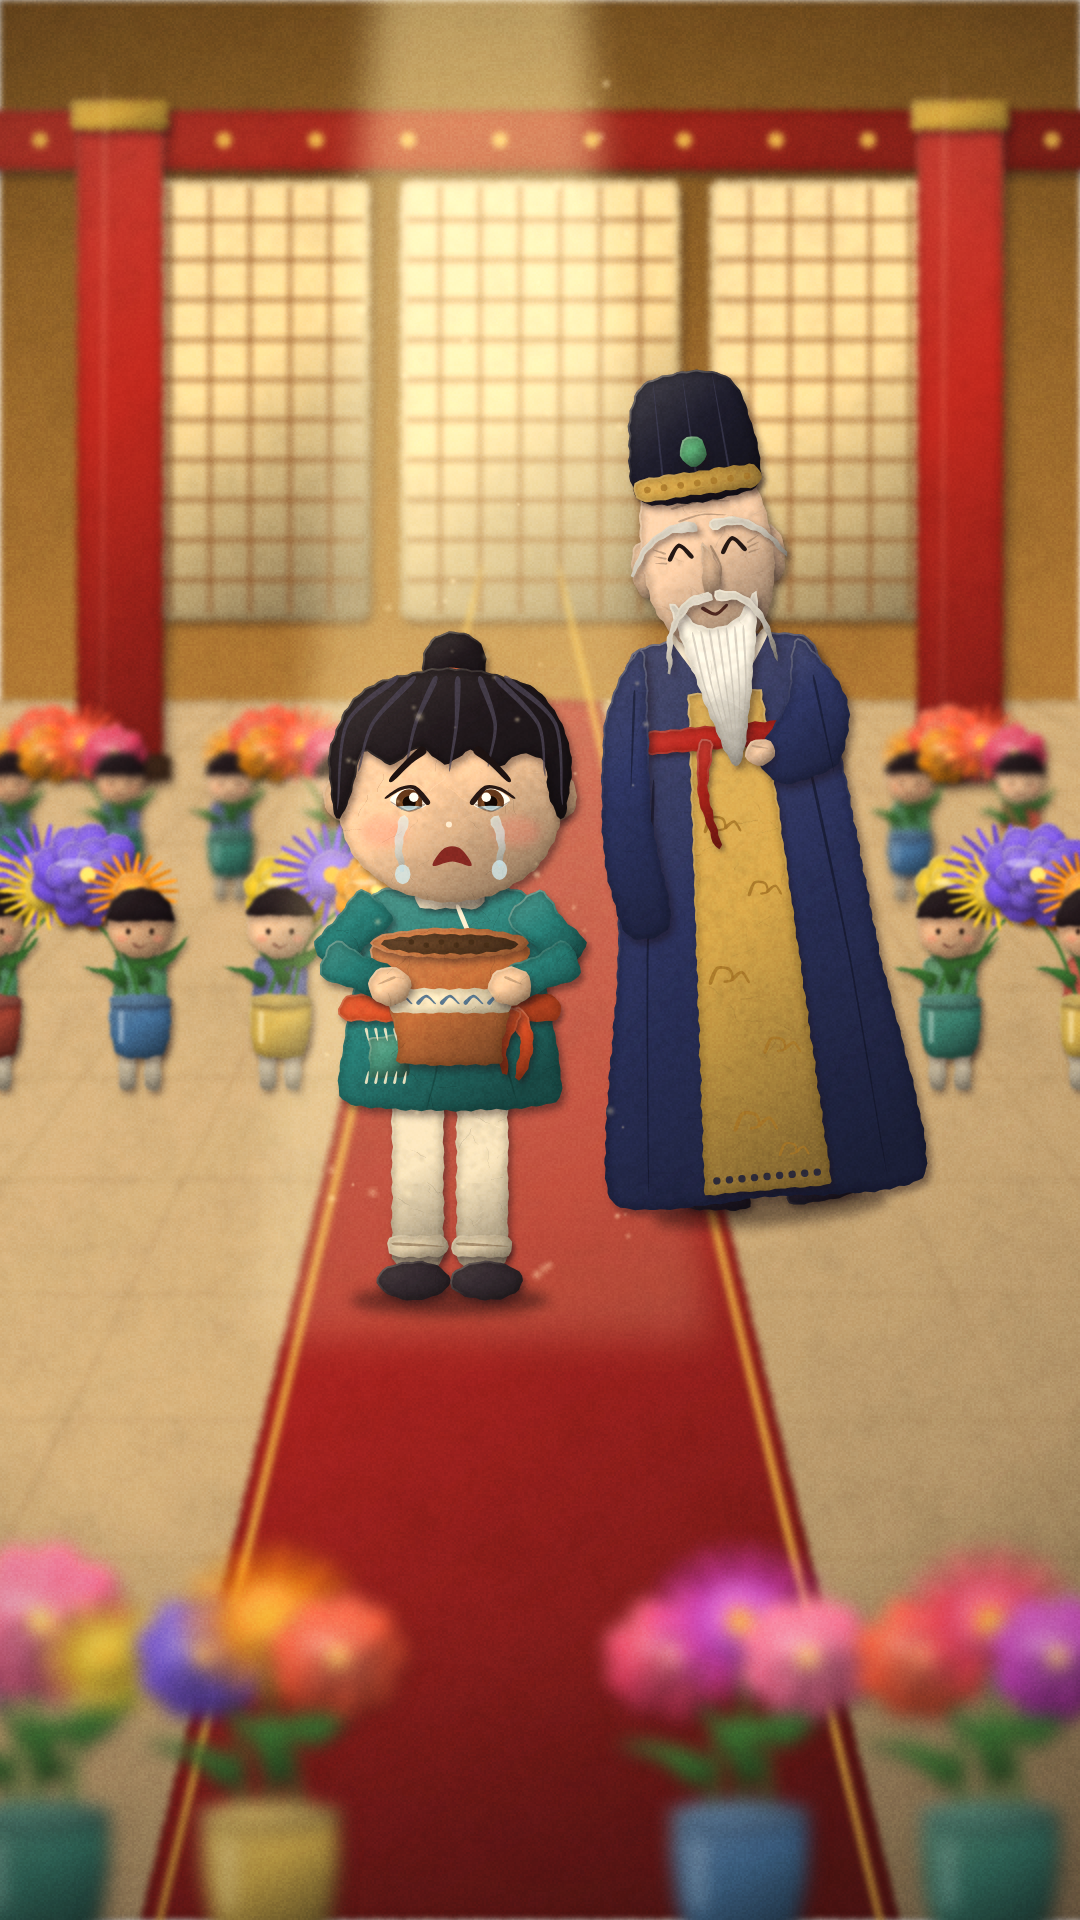
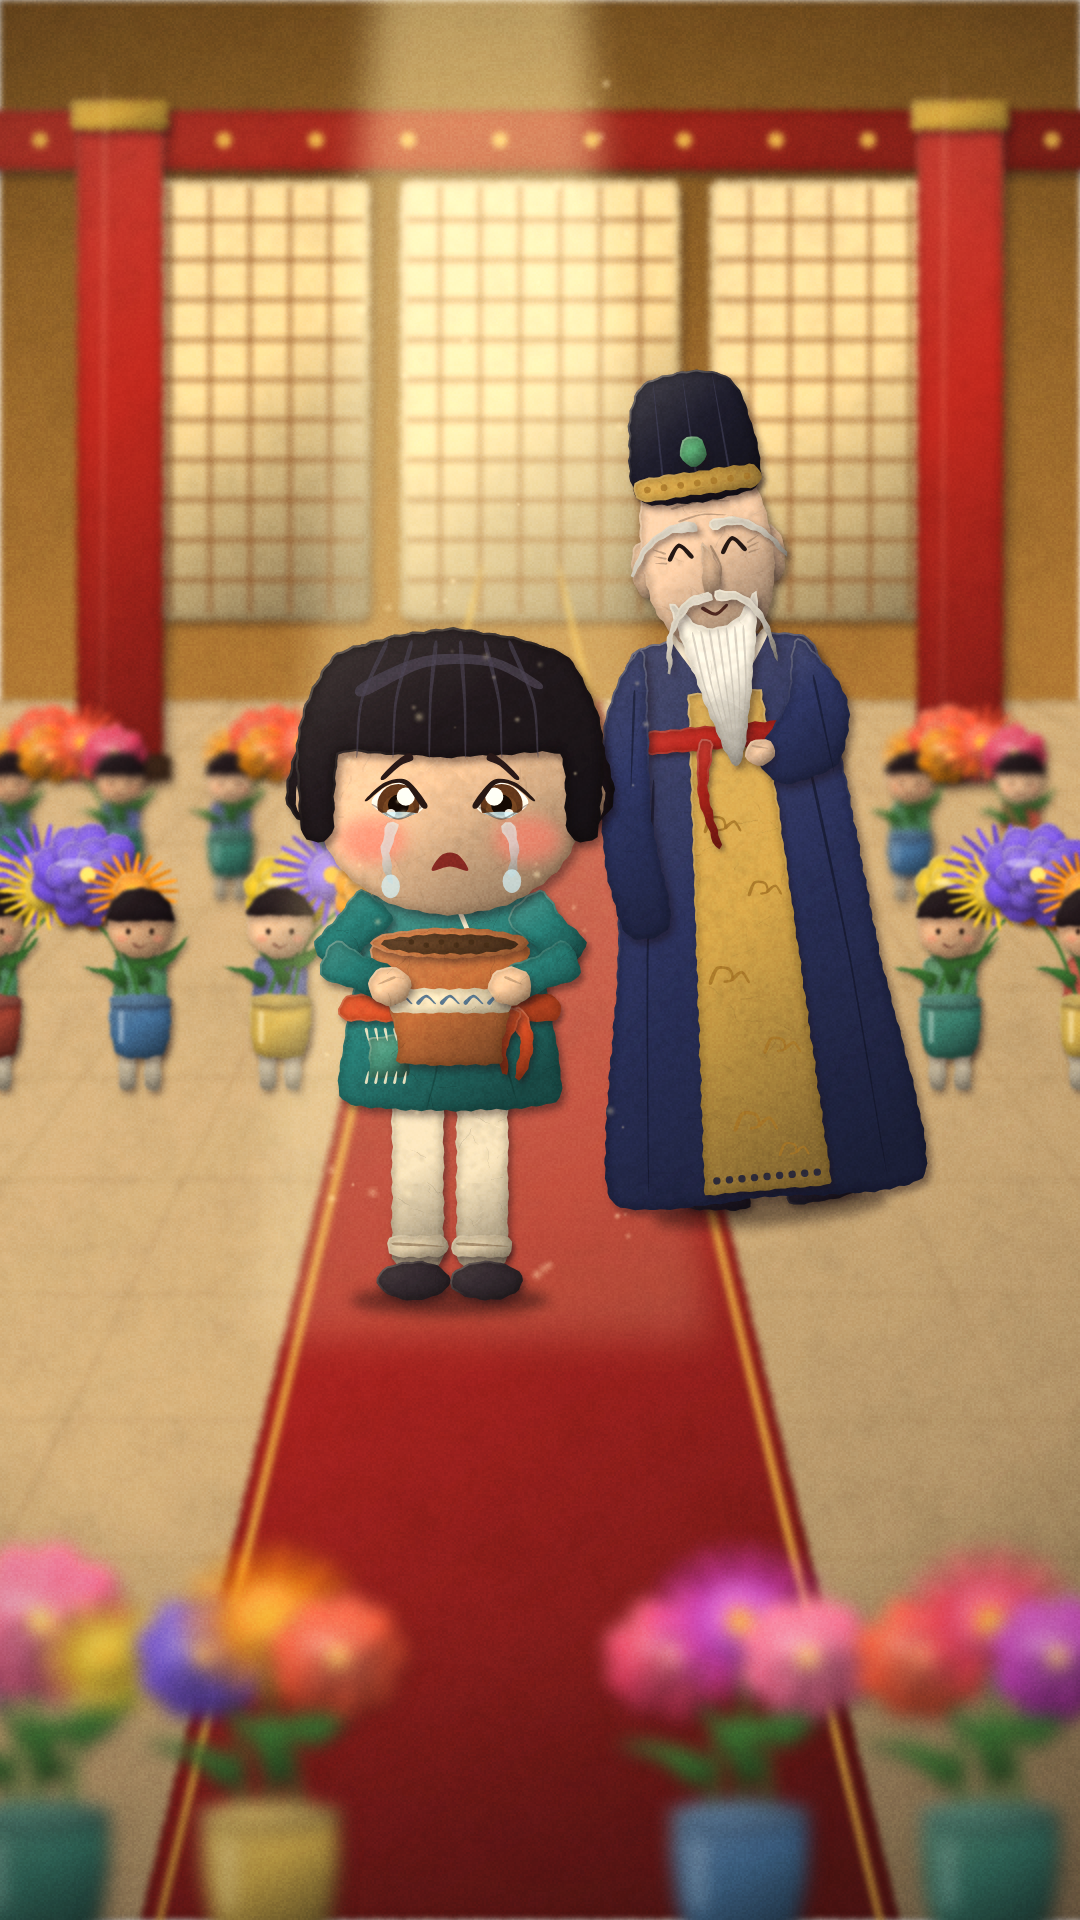
O Pote Vazio: Ping mais fofinho (okappa, cabeça maior, olhos grandes)
Claude-Session: https://claude.ai/code/session_01X11VASBScBsp7AUyCmMJeZ

Changed region(s): [[0.2444, 0.3125, 0.5806, 0.5]]

diff --git a/pote_vazio/characters.py b/pote_vazio/characters.py
@@ -51,7 +51,7 @@ def eye(c, x, y, kind, col, rx=7.0, ry=9.5, look=(0, 0), wet=False, side=1):
     ink(c, [(ex - rx * 1.25, top + 2.5 * k), (ex, top - 0.8 * k), (ex + rx * 1.25, top + 2.5 * k)], 2.4 * k, col, 0.9, 1.4 * k)
 
 
-def almond_eye(c, x, y, kind, col, side=1, look=(0, 0), wet=False, rx=8.2, ry=6.0):
+def almond_eye(c, x, y, kind, col, side=1, look=(0, 0), wet=False, rx=8.2, ry=6.0, cute=False):
     """Olho amendoado pequeno e delicado (traço de livro ilustrado): ponto escuro,
     pálpebra superior em nanquim, brilho mínimo."""
     if kind in ('happy', 'closed'):
@@ -82,8 +82,10 @@ def almond_eye(c, x, y, kind, col, side=1, look=(0, 0), wet=False, rx=8.2, ry=6.
     flat(c, circ(ix, iy, ir), (92, 58, 38))
     flat(c, circ(ix, iy + ir * 0.25, ir * 0.75), (120, 80, 50), 0.6)
     flat(c, circ(ix, iy, ir * 0.5), (22, 16, 16))
-    hl = 1.6 if not wet else 2.2
+    hl = (1.6 if not wet else 2.2) * (1.6 if cute else 1.0)
     flat(c, circ(ix - side * ir * 0.35, iy - ir * 0.4, hl), (255, 252, 244), 0.95)
+    if cute:
+        flat(c, circ(ix + side * ir * 0.35, iy + ir * 0.4, hl * 0.5), (255, 252, 244), 0.85)
     if wet:
         flat(c, ell(ex, ey + ry * sy * 0.5, rx * 0.9, 1.4), (200, 230, 240), 0.8)
     c.restore()
@@ -164,9 +166,9 @@ def tear_streams(c, pts_l, pts_r):
 PING_EXPR = {
     'neutro':      dict(eyes='open', brows=(0, 0), mouth='smile', blush=0.45),
     'encanto':     dict(eyes='wide', brows=(-5, -4), mouth='smile_open', blush=0.55),
-    'concentrado': dict(eyes='half', brows=(1, 1), mouth='tongue', blush=0.4, look=(1.5, 2)),
-    'decepcionado': dict(eyes='half', brows=(-6, 3), mouth='flat_down', blush=0.35, look=(0, 2)),
-    'vergonha':    dict(eyes='down', brows=(-9, 4), mouth='wobble', blush=1.4, look=(-2, 4), tilt=-9),
+    'concentrado': dict(eyes='open', brows=(1, 1), mouth='tongue', blush=0.4, look=(2, 4)),
+    'decepcionado': dict(eyes='open', brows=(-8, 5), mouth='flat_down', blush=0.35, look=(0, 4)),
+    'vergonha':    dict(eyes='open', brows=(-9, 5), mouth='wobble', blush=1.5, look=(-4, 5), tilt=-9),
     'choro':       dict(eyes='open', brows=(-9, 5), mouth='cry', blush=0.8, wet=True, tears=True, look=(0, 1)),
     'coragem':     dict(eyes='open', brows=(0, -2), mouth='firm', blush=0.6, wet=True),
     'alegria':     dict(eyes='happy', brows=(-5, -3), mouth='smile_open', blush=0.75),
@@ -174,58 +176,60 @@ PING_EXPR = {
 
 
 def ping_head(c, expr='neutro', t=0.0, mouth_kind=None, mouth_open=1.0, blink=0.0, nod=0.0):
+    """Ping fofinho, estilo livro infantil japonês: cabeça grande e redonda, bochechas cheias,
+    cabelo okappa (franja reta), olhos grandes e baixos, nariz e boca pequenos."""
     e = PING_EXPR[expr]
     P = PING
     hx, hy = 0, -238
     c.save()
     c.rotate(e.get('tilt', 0), hx, hy + 40)
     c.translate(0, nod)
-    # coque + fita (atrás)
-    layer(c, circ(hx + 2, hy - 58, 15), P['hair'], depth=0.15, seed=1)
+    # cabeça maior (≈2,6 cabeças de altura total)
+    c.translate(0, -190); c.scale(1.2, 1.2); c.translate(0, 190)
+    # volume de trás do cabelo
+    back = smooth([(hx - 55, hy + 22), (hx - 57, hy - 16), (hx - 42, hy - 44), (hx, hy - 52), (hx + 42, hy - 44),
+                   (hx + 57, hy - 16), (hx + 55, hy + 22)], tension=0.45)
+    layer(c, back, P['hair'], depth=0.18, seed=1)
+    # orelhas pequenas
     for s in (-1, 1):
-        layer(c, tp([(hx + 2, hy - 52), (hx + 2 + s * 14, hy - 46), (hx + 2 + s * 22, hy - 34)], 7, 3),
-              P['sash'], depth=0.1, seed=2 + s)
-    layer(c, ell(hx + 2, hy - 50, 9, 6), P['sash'], depth=0.1, seed=4)
-    # orelhas
-    for s in (-1, 1):
-        layer(c, ell(hx + s * 50, hy + 4, 9, 11), mul(P['skin'], 0.96), depth=0.1, seed=5 + s)
-        flat(c, ell(hx + s * 50, hy + 5, 4, 6), mul(P['skin'], 0.82), 0.6)
-    # rosto (redondo, bochecha cheia)
+        layer(c, ell(hx + s * 52, hy + 12, 8, 10), mul(P['skin'], 0.96), depth=0.1, seed=5 + s)
+        flat(c, ell(hx + s * 52, hy + 13, 3.5, 5), mul(P['skin'], 0.82), 0.6)
+    # rosto: redondo, mais largo embaixo (bochechas de bebê)
     pts = []
-    for i in range(28):
-        a = i / 28 * 2 * math.pi
-        r_x, r_y = 51, 48
-        bulge = 1 + 0.06 * max(0, math.sin(a)) * abs(math.cos(a)) * 2
-        pts.append((hx + math.cos(a) * r_x * bulge, hy + 4 + math.sin(a) * r_y * (1.02 if math.sin(a) > 0 else 1)))
-    face = smooth(pts)
-    layer(c, face, P['skin'], depth=0.2, seed=7)
-    # blush
+    for i in range(32):
+        a = i / 32 * 2 * math.pi
+        sx = 53 * (1 + 0.07 * max(0, math.sin(a)))
+        sy = 49 * (1.04 if math.sin(a) > 0 else 1)
+        pts.append((hx + math.cos(a) * sx, hy + 6 + math.sin(a) * sy))
+    layer(c, smooth(pts), P['skin'], depth=0.2, seed=7)
+    # bochechas rosadas grandes
     for s in (-1, 1):
-        flat(c, ell(hx + s * 31, hy + 20, 11, 7), P['blush'], 0.35 * e['blush'], blur=5)
+        flat(c, ell(hx + s * 30, hy + 28, 13, 9), P['blush'], 0.42 * min(1.6, 0.6 + e['blush']), blur=6)
     look = e.get('look', (0, 0))
     for s in (-1, 1):
-        almond_eye(c, hx + s * 19, hy + 6, 'closed' if blink > 0.5 else e['eyes'], P['eye'], side=s, look=look, wet=e.get('wet', False))
-    # nariz botão
-    flat(c, ell(hx + 1, hy + 18, 4.5, 3.6), mul(P['skin'], 0.86), 0.9)
-    flat(c, circ(hx - 0.5, hy + 16.8, 1.4), (255, 240, 225), 0.7)
-    mouth(c, hx + 1, hy + 31, mouth_kind or e['mouth'], op=mouth_open)
+        almond_eye(c, hx + s * 20, hy + 14, 'closed' if blink > 0.5 else e['eyes'], P['eye'], side=s, look=look,
+                   wet=e.get('wet', False), rx=9.6, ry=8.0, cute=True)
+    # nariz mínimo
+    flat(c, ell(hx, hy + 25, 2.8, 2.2), mul(P['skin'], 0.84), 0.9)
+    mouth(c, hx, hy + 36, mouth_kind or e['mouth'], s=0.78, op=mouth_open)
     if e.get('tears'):
-        tear_streams(c, [(hx - 21, hy + 14), (hx - 24, hy + 26), (hx - 22, hy + 38)],
-                     [(hx + 21, hy + 14), (hx + 24, hy + 26), (hx + 23, hy + 36)])
-    # cabelo (franja recortada) por cima
-    hair = smooth([(hx - 53, hy + 14), (hx - 56, hy - 18), (hx - 40, hy - 46), (hx, hy - 56), (hx + 40, hy - 46),
-                   (hx + 56, hy - 18), (hx + 53, hy + 14), (hx + 46, hy + 4), (hx + 44, hy - 12), (hx + 32, hy - 16),
-                   (hx + 22, hy - 10), (hx + 10, hy - 18), (hx - 2, hy - 11), (hx - 14, hy - 19),
-                   (hx - 27, hy - 11), (hx - 40, hy - 17), (hx - 45, hy - 2), (hx - 47, hy + 6)], tension=0.42)
+        tear_streams(c, [(hx - 22, hy + 22), (hx - 25, hy + 32), (hx - 23, hy + 44)],
+                     [(hx + 22, hy + 22), (hx + 25, hy + 32), (hx + 24, hy + 42)])
+    # okappa: franja reta + laterais retas na altura do queixo
+    hair = smooth([(hx - 57, hy + 26), (hx - 59, hy - 14), (hx - 44, hy - 44), (hx, hy - 54), (hx + 44, hy - 44),
+                   (hx + 59, hy - 14), (hx + 57, hy + 26), (hx + 46, hy + 26), (hx + 44, hy - 2), (hx + 40, hy - 6),
+                   (hx + 20, hy - 5), (hx, hy - 4), (hx - 20, hy - 5), (hx - 40, hy - 6), (hx - 44, hy - 2), (hx - 46, hy + 26)],
+                  tension=0.35)
     layer(c, hair, P['hair'], depth=0.18, seed=9)
-    # mechas finas em tom diferente
-    for k, (x0, x1, y1) in enumerate([(-30, -42, -10), (-12, -20, -12), (6, 0, -10), (24, 18, -12), (38, 44, -8),
-                                      (-44, -52, 6), (46, 52, 4)]):
-        ink(c, [(hx + x0 * 0.6, hy - 50), (hx + (x0 + x1) / 2, hy - 30), (hx + x1, hy + y1)], 2.6, P['hair_hi'], 0.75, 0.8)
-    # sobrancelhas
+    # brilho do cabelo (arco) e mechas finas
+    c.drawPath(tp([(hx - 34, hy - 30), (hx - 10, hy - 41), (hx + 16, hy - 41), (hx + 34, hy - 32)], 5, 3),
+               skia.Paint(AntiAlias=True, Color=C(P['hair_hi'], 0.7)))
+    for x0 in (-36, -22, -8, 6, 20, 34):
+        ink(c, [(hx + x0 * 0.7, hy - 47), (hx + x0 * 0.95, hy - 26), (hx + x0, hy - 6)], 1.6, P['hair_hi'], 0.6, 0.6)
+    # sobrancelhas curtinhas aparecendo logo abaixo da franja
     bi, bo = e['brows']
     for s in (-1, 1):
-        brow(c, hx + s * 19, hy - 9, bi, bo, s, (30, 24, 28), w=3.8, L=15)
+        brow(c, hx + s * 20, hy + 1, bi * 0.6, bo * 0.6, s, (40, 30, 34), w=3.0, L=11)
     c.restore()
 
 

diff --git a/pote_vazio/sheet.py b/pote_vazio/sheet.py
@@ -51,7 +51,7 @@ cols = [
          ficha=['Quem é: o menino que faz tudo florir.', 'Quer: ser escolhido pelo imperador.',
                 'Defeito: o orgulho do dom vira vergonha quando a semente falha.',
                 'Jeito: rápido e saltitante; encolhe quando sente vergonha. Gesto: abraça o pote contra o peito.'],
-         why='Círculo e 3 cabeças: criança gentil. Verde-azulado, complementar à luz dourada, para se destacar; o vermelho da fita e da faixa é o acento. O remendo conta que a família é simples.'),
+         why='Círculo e ~2,6 cabeças, fofinho como livro infantil japonês: cabelo okappa, bochechas cheias, olhos grandes e baixos. Verde-azulado, complementar à luz dourada, para se destacar; o vermelho da fita e da faixa é o acento. O remendo conta que a família é simples.'),
     dict(fn=ch.pai, x=900, sc=SC, name='O pai', shape='quadrado',
          pal=[ch.PAI['tunic'], ch.PAI['skin'], ch.PAI['pants'], ch.PAI['straw'], ch.PAI['rope']],
          ficha=['Quem é: lavrador calado e firme.', 'Quer: que o filho não tenha vergonha da verdade.',
@@ -112,9 +112,9 @@ heads += [(ch.imp_head, 'imp', e, n) for e, n in [('sereno', 'sereno'), ('testa_
                                                  ('pergunta', 'pergunta'), ('sorriso', 'sorriso')]]
 heads += [(ch.pai_head, 'pai', e, n) for e, n in [('terno', 'terno'), ('apoio', 'apoio')]]
 heads += [(ch.pardal, 'bird', e, n) for e, n in [('curioso', 'curioso'), ('decepcionado', 'decepcionado')]]
-CENTER = {'ping': (0, -246), 'imp': (0, -392), 'pai': (0, -340), 'bird': (0, -26)}
+CENTER = {'ping': (0, -262), 'imp': (0, -392), 'pai': (0, -340), 'bird': (0, -26)}
 SCH = {'ping': 1.15, 'imp': 0.95, 'pai': 1.05, 'bird': 2.2}
-SCH = {'ping': 1.75, 'imp': 1.35, 'pai': 1.45, 'bird': 3.0}
+SCH = {'ping': 1.5, 'imp': 1.35, 'pai': 1.45, 'bird': 3.0}
 rows = [[h for h in heads if h[1] == 'ping'], [h for h in heads if h[1] != 'ping']]
 ROWY = [2080, 2560]
 group_x = {}
